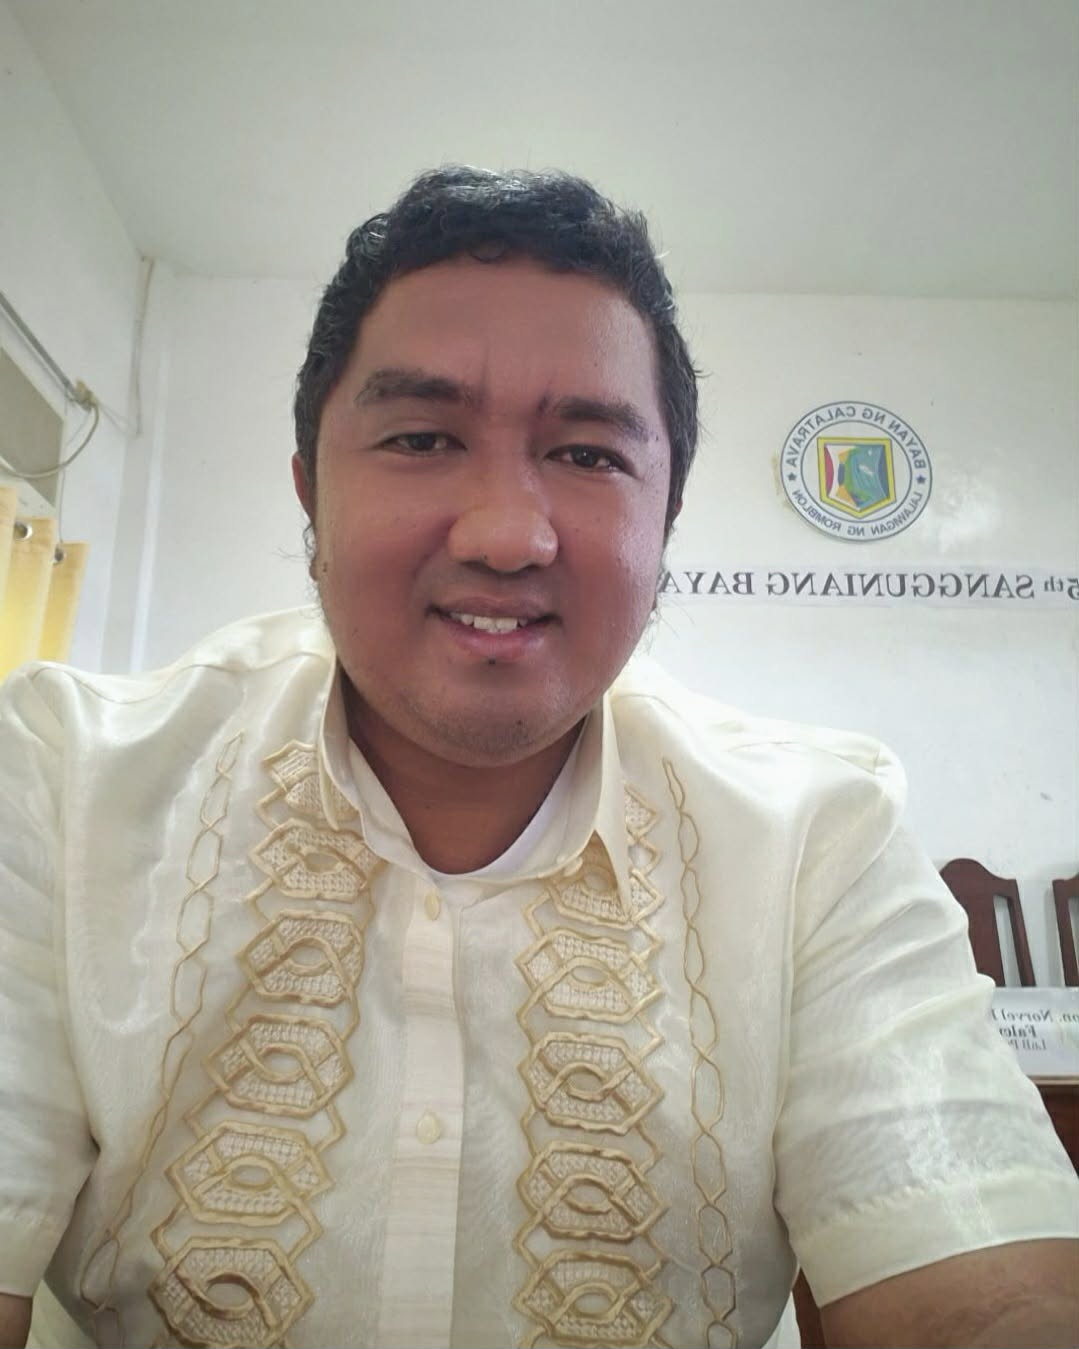
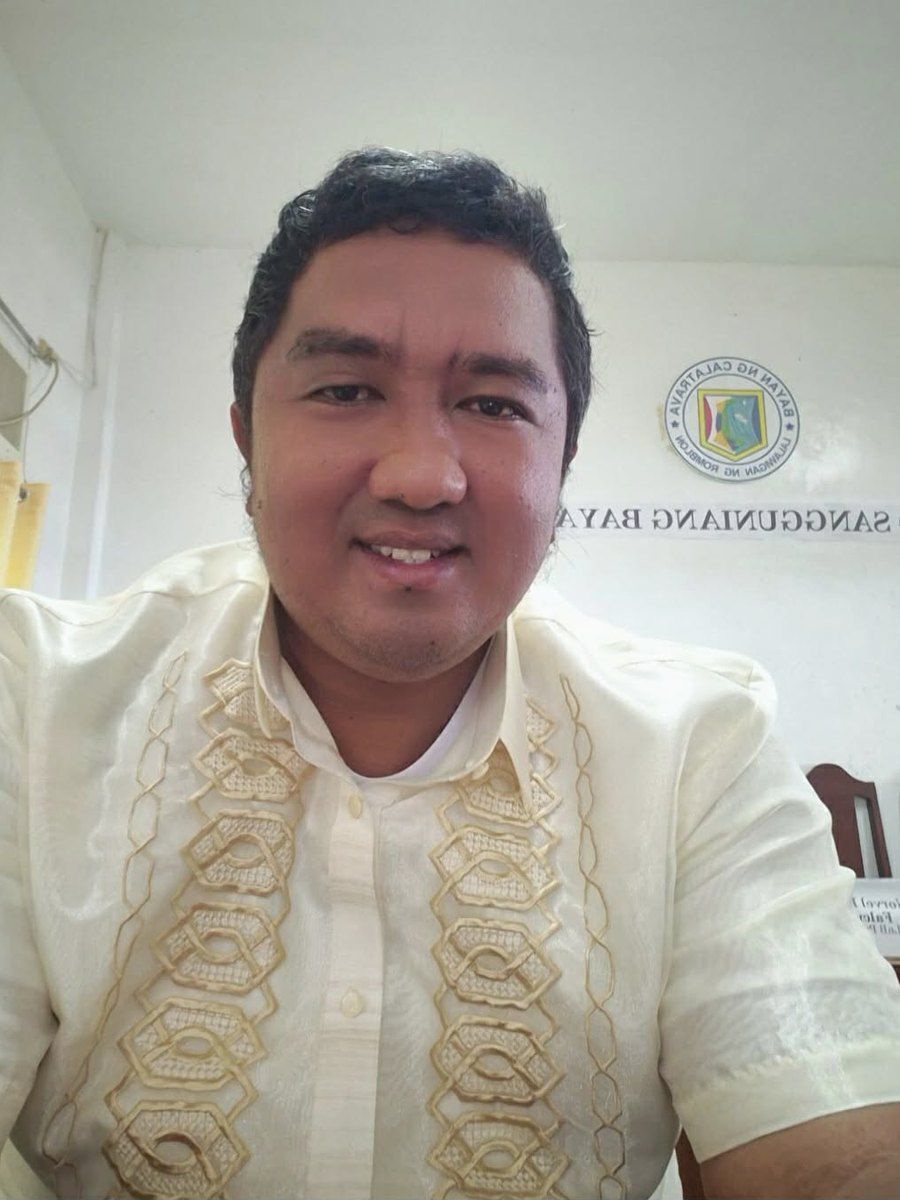
Correct two officials' names from their photo captions; use the candid portraits for Fruelda and Reandelar
Per the LGU, the names printed on the portraits are authoritative over the
org chart: Emil Ralph M. Fajel is Emil Ralph F. Fajel, and Norvelkimwell F.
Falcutila is Norvel Kimwell Falcutila. Updated in both officials.json and
organization.json so the two stay in sync; the source PPTX is untouched.

Fruelda and Reandelar now use the candid photos the LGU preferred over the
studio versions, which are removed. Both candids were cropped to 3:4 to fit
the grid — Reandelar's anchored to the top edge so his head is not clipped.

diff --git a/MEMORY.md b/MEMORY.md
@@ -314,10 +314,13 @@ Audited https://rjfabella.github.io/calatrava-lgu/ and fixed everything found.
   filename — the studio portraits carry a "HON. NAME / ROLE" caption band.
   `SB-EMM` didn't match Emil Ralph M. Fajel's initials, but its caption reads
   "HON. EMIL RALPH F. FAJEL", which settled it.
-- Two officials came with a second file: `SB-VCM2` / `SB-RFR2` are the studio
-  portraits matching the set, `SB-VCM` / `SB-RFR` are candids (a selfie and an
-  event photo). The "2" versions are used; the candids are committed but
-  unreferenced.
+- Two officials came with a second file. **RJ chose the candids** (`SB-VCM`,
+  a selfie; `SB-RFR`, an event photo) over the studio "2" versions, which
+  were then deleted. Both candids were cropped to 3:4 — RFR anchored to the
+  top edge because his head sits right at it, VCM trimmed evenly at the
+  sides. RFR is only 508×677 (its native width); at the grid's 153×203 that
+  is still 2.5× density, so it is fine, but it will look soft if the frame
+  ever grows much.
 - **The files were cropped and downscaled in place** (originals are with the
   LGU). The studio photos are 2:3 with the caption band in the bottom ~11%;
   the grid frame is 3:4. Removing the band by cropping to `width × 4/3` from
@@ -326,12 +329,14 @@ Audited https://rjfabella.github.io/calatrava-lgu/ and fixed everything found.
   caption sat higher than the others and needed a tighter crop. All are now
   900×1200 JPEG, roughly half their original weight. **If a new portrait
   arrives, crop it the same way** or its caption will show through the frame.
-- **Two name discrepancies between official LGU sources**, left as-is in the
-  JSON (which follows the org chart) and flagged to RJ:
-  1. Org chart: *Emil Ralph **M.** Fajel* — photo caption: *Emil Ralph **F.**
-     Fajel*. Different middle initial.
-  2. Org chart: *Norvelkimwell F. Falcutila* — photo caption: *Norvel Kimwell
-     Falcutila* (two words). The org chart also spells it as one word.
+- **Two names differed between the org chart and the photo captions; RJ
+  ruled the photos are correct** and both `officials.json` and
+  `organization.json` were updated to match (2026-09-12):
+  1. *Emil Ralph **M.** Fajel* → **Emil Ralph F. Fajel**
+  2. *Norvelkimwell F. Falcutila* → **Norvel Kimwell Falcutila** (two words,
+     and no middle initial — the caption carries none, so none was kept)
+  The org chart PPTX in `assets/contents/` still has the old spellings; it is
+  the source document and is left untouched.
 - `Banner.jpg` (2048×853) arrived in the same drop with no instruction. It
   is committed but not wired in — presumably a future hero slide.
 
